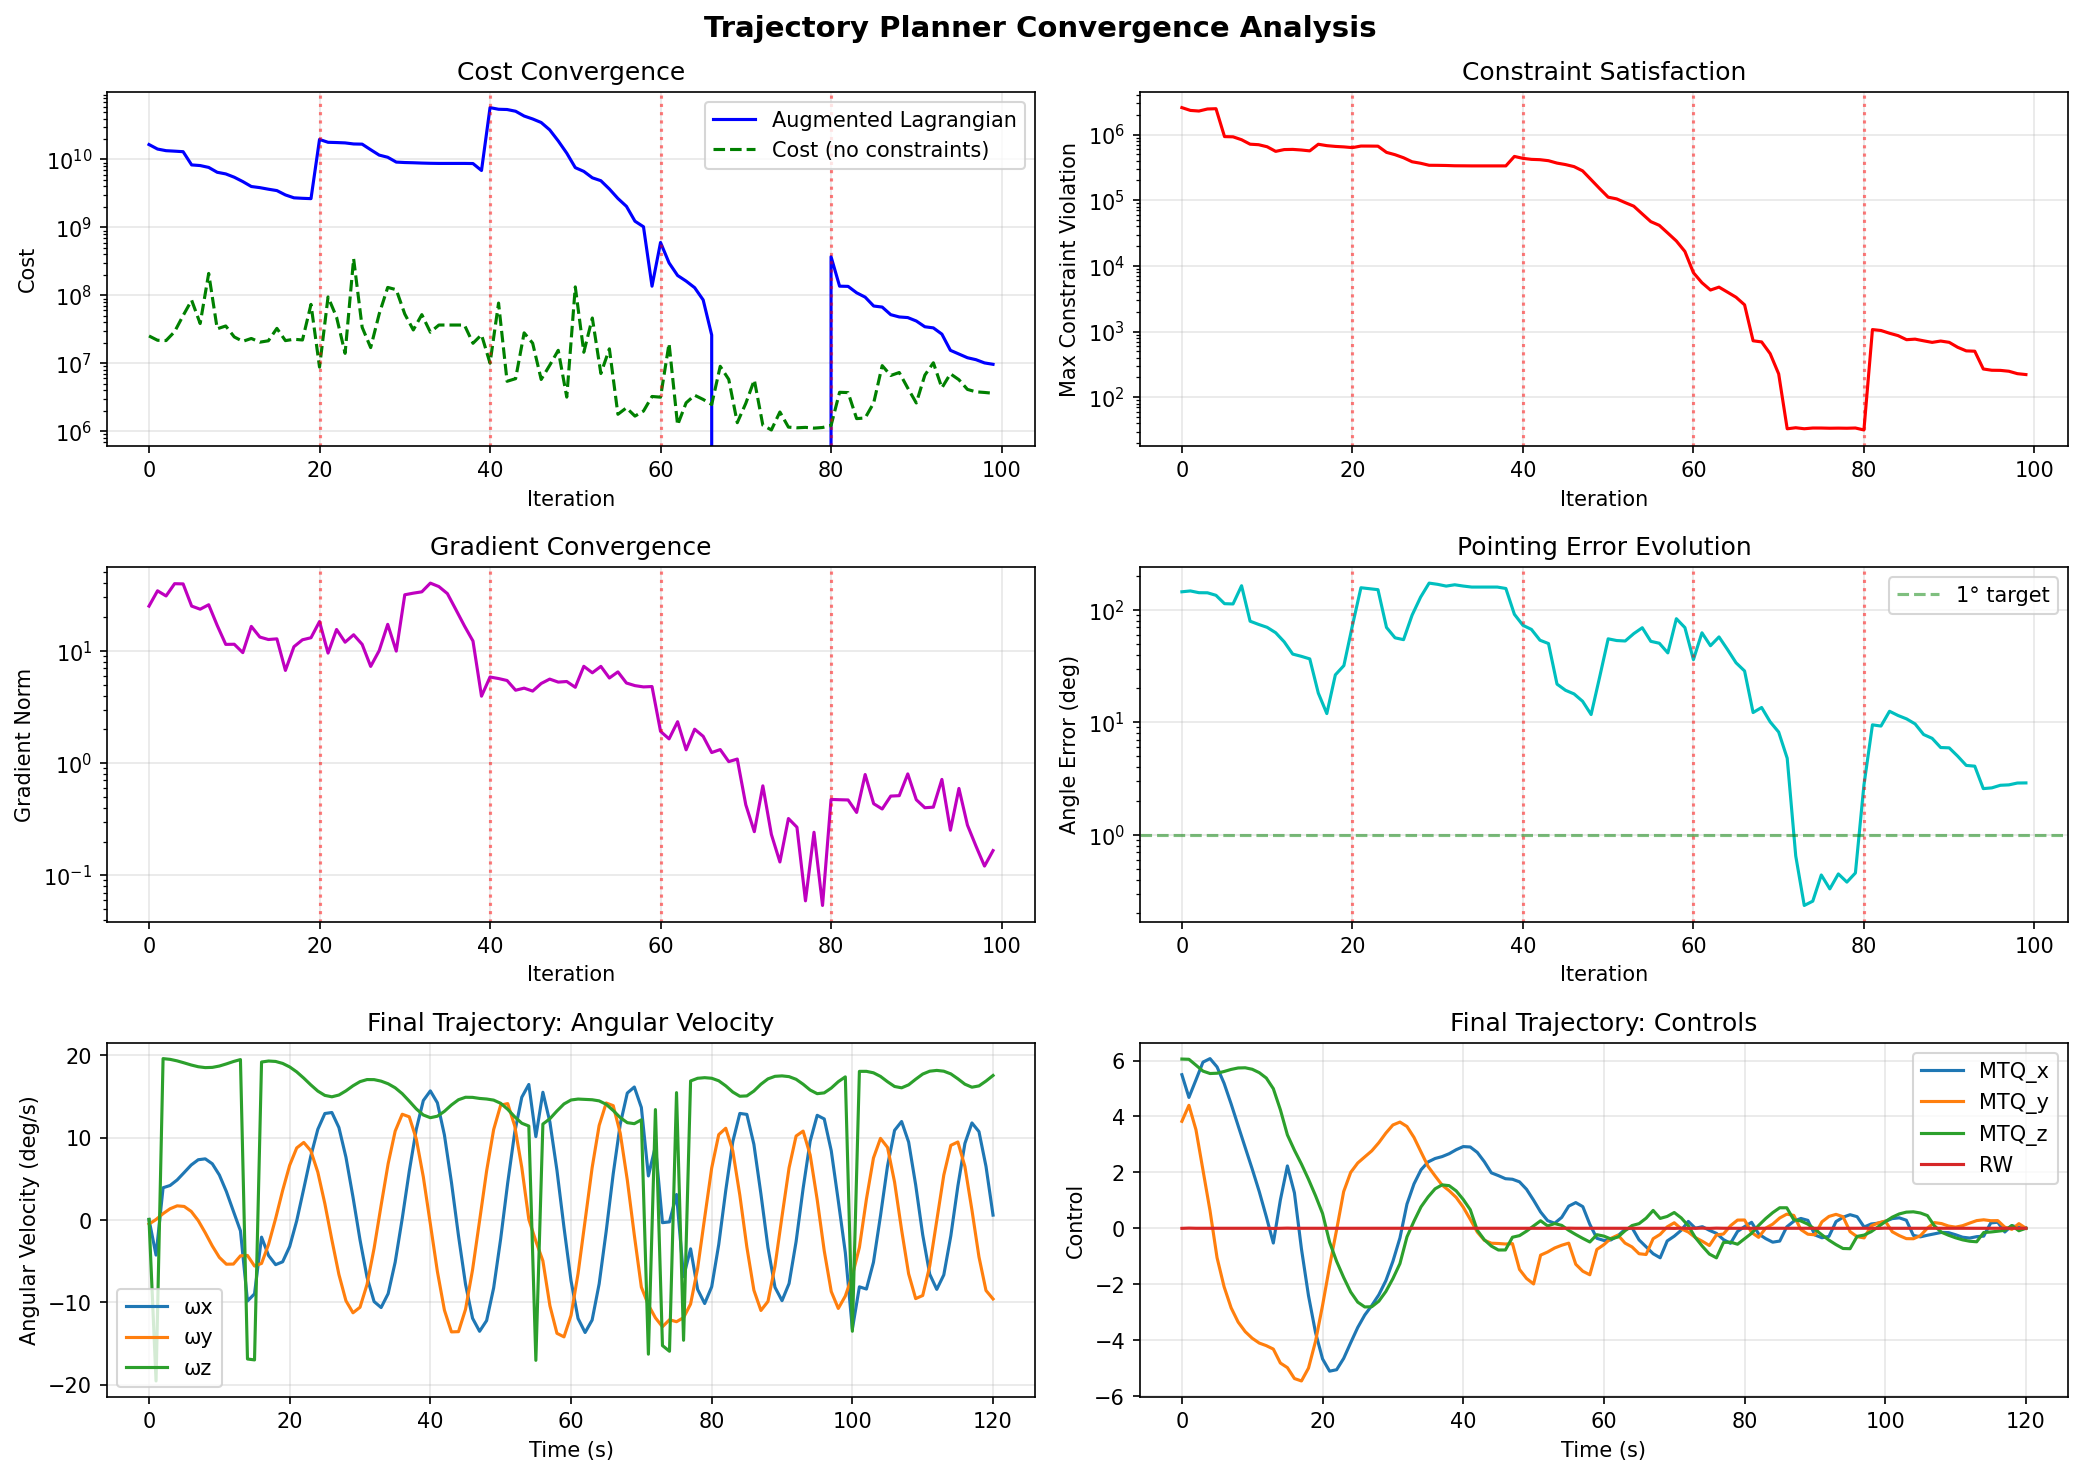
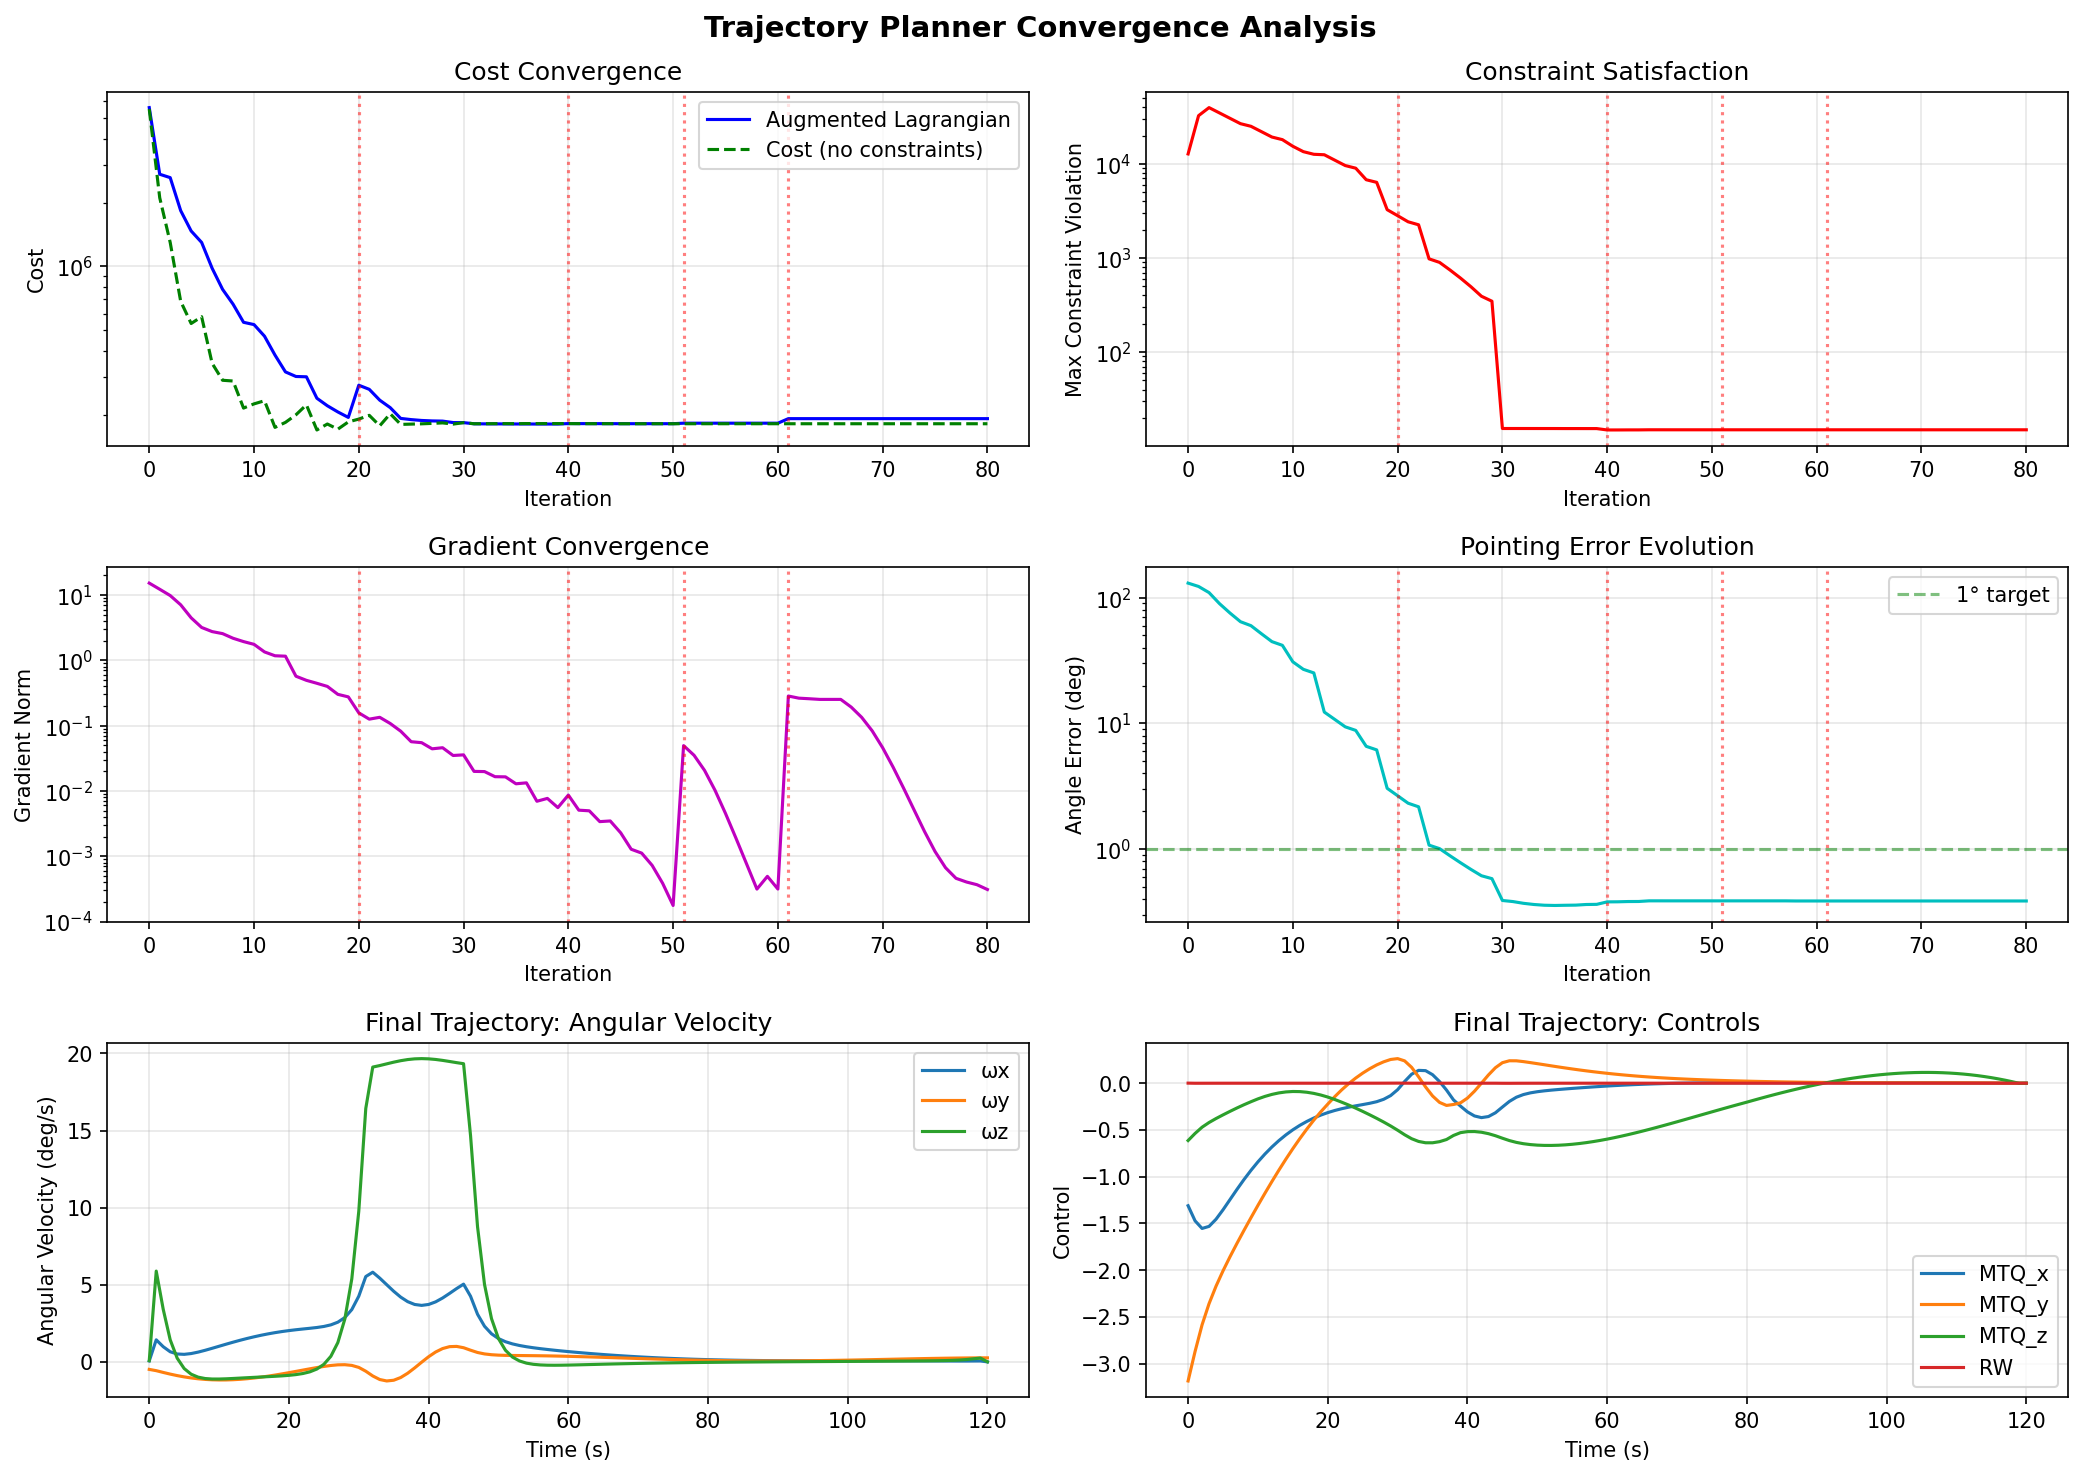
Fix bdot_on default and update convergence visualization
Key fix: Set bdot_on=0 by default in create_planner_settings()
- bdot_on=1 uses B-dot damping initialization meant for detumbling
- bdot_on=0 uses random initialization better suited for slew maneuvers
- This was causing wild oscillations in the trajectory

Updated visualization now shows healthy convergence:
- Final error: 0.39° (was 2.89° with wrong init)
- Smooth angular velocity profile peaking at 20 deg/s
- Clean MTQ + RW control coordination
- 90° → 0.39° in 81 iterations, 5.85s

diff --git a/ADCS/controller/helpers/planner_factory.py b/ADCS/controller/helpers/planner_factory.py
@@ -131,6 +131,12 @@ def create_planner_settings(
         ]}
     )
     
+    # Default to bdot_on=0 for slew maneuvers (unless explicitly overridden)
+    # bdot_on=1 uses B-dot damping initialization which is meant for detumbling,
+    # not for controlled slew maneuvers from a stable initial state
+    if 'bdot_on' not in kwargs:
+        planner_settings.bdot_on = 0
+    
     # Apply raw weights
     planner_settings.mtq_control_weight = raw_weights.get('mtq_control_weight', 1e3)
     planner_settings.rw_control_weight = raw_weights.get('rw_control_weight', 1e8)

diff --git a/papers/Planner/visualize_iteration_convergence.py b/papers/Planner/visualize_iteration_convergence.py
@@ -200,6 +200,7 @@ def main():
     settings = create_planner_settings(sat, config)
     settings.rw_AM_weight = 1e4
     settings.RWh_ok_mult = 0.5
+    settings.bdot_on = 0  # IMPORTANT: Use random init, not B-dot for slew maneuvers
     settings.pass1.convergence.max_outer_iter = 5
     settings.pass1.convergence.max_inner_iter = 20
     settings.pass2.convergence.max_outer_iter = 3
